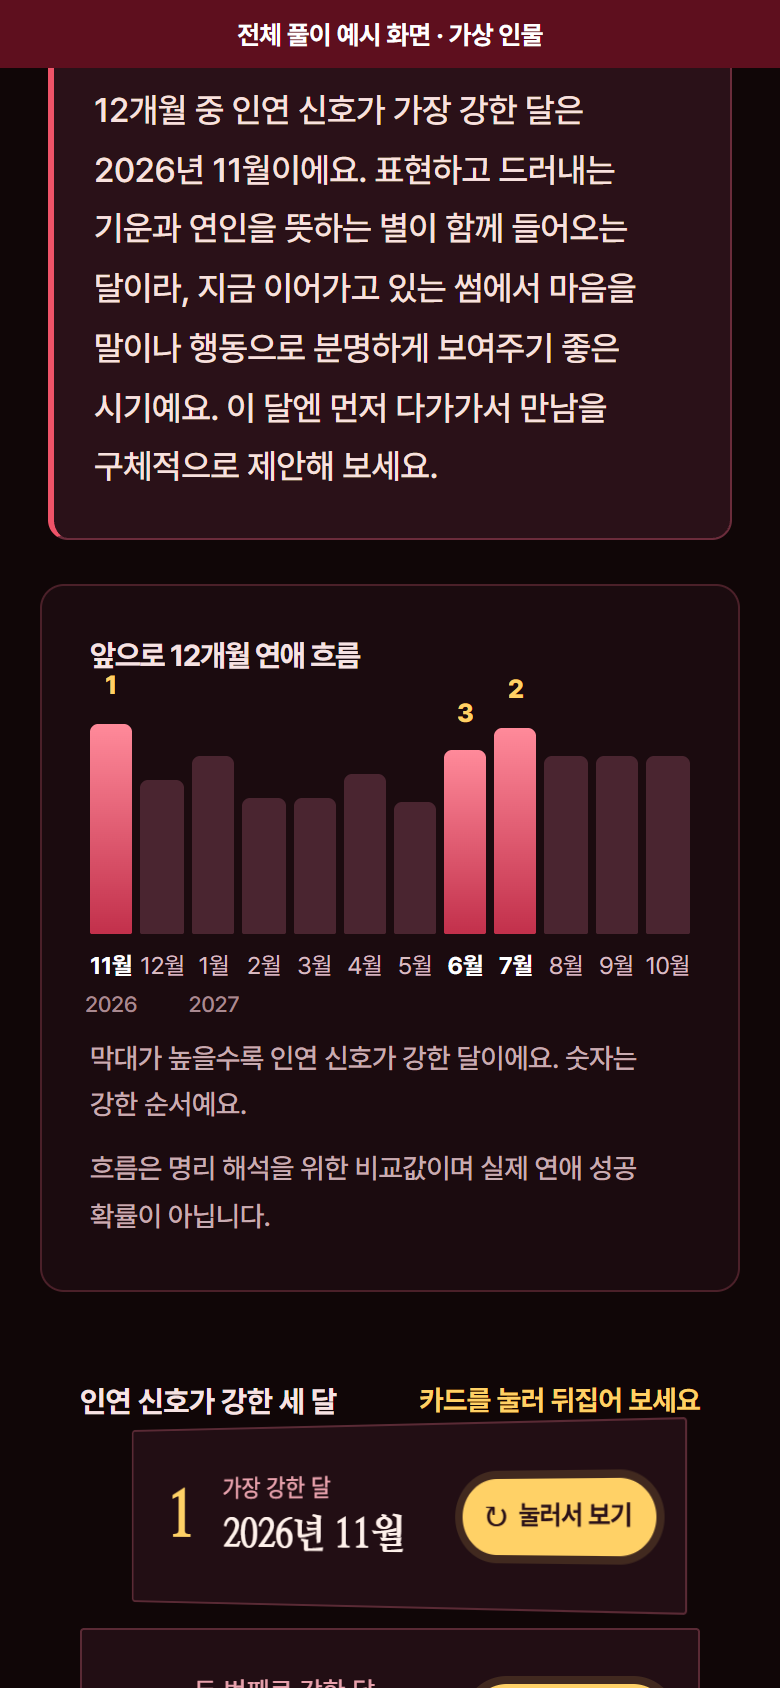
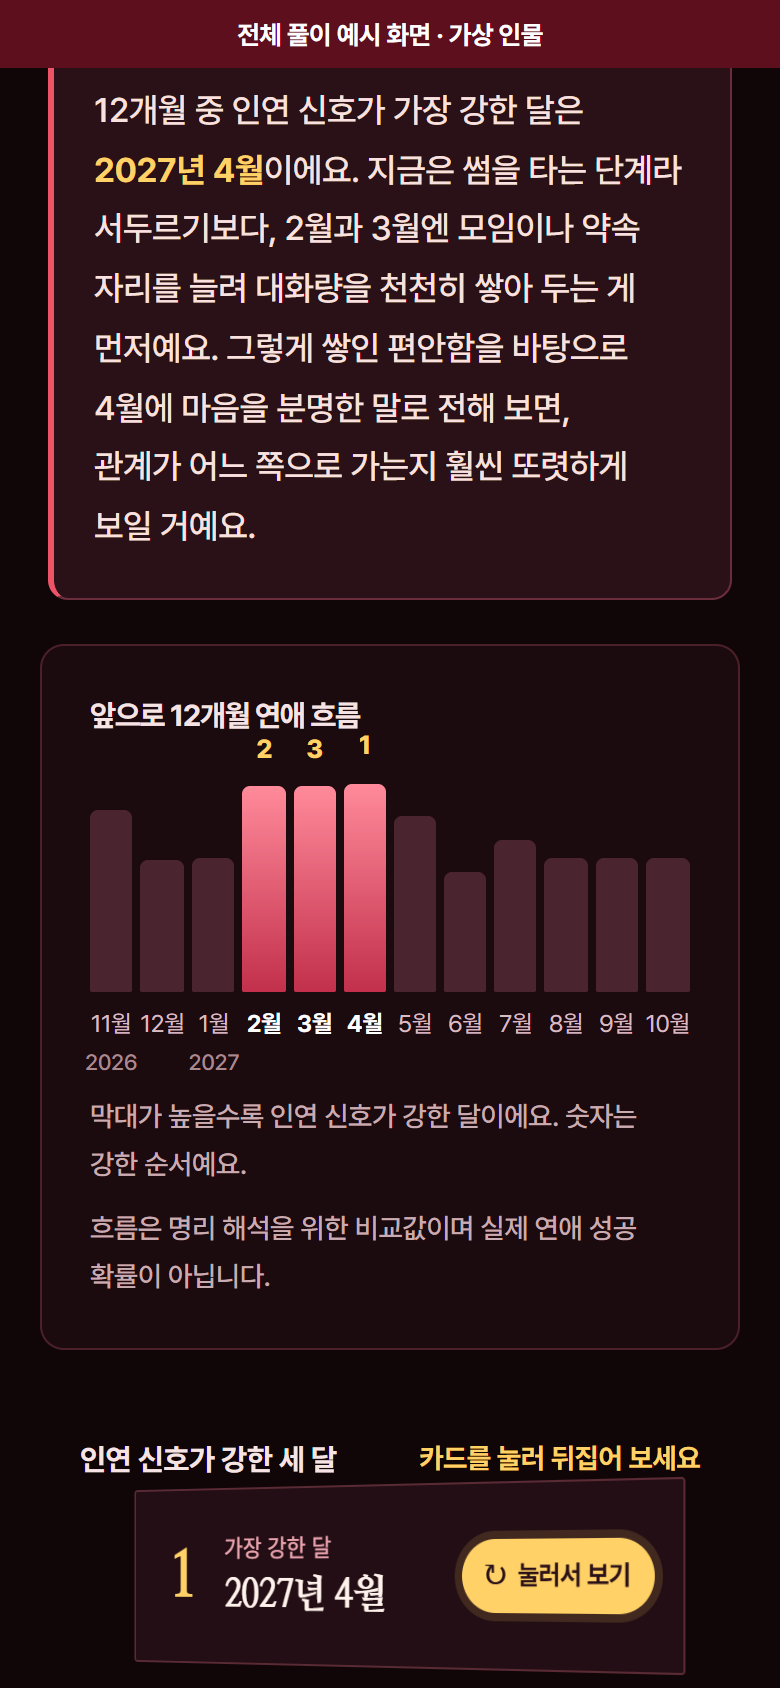
유료 리포트 실물 화면 3장을 쉬운 말 새 샘플(서연)로 다시 찍는다

diff --git a/docs/preview/serve-example.js b/docs/preview/serve-example.js
@@ -1,24 +1,32 @@
 'use strict';
-// 로컬 미리보기 전용(개발용): reading-example.json(가상 인물 '수달'의 실제 AI 생성 예시)을 가상 결제 완료 주문(preview-example)으로 보여 준다.
-// 임시 DB를 쓰고 운영 데이터·결제·메일에는 연결하지 않는다. 사용: node docs/preview/serve-example.js [포트=4520]
+// 로컬 미리보기 전용(개발용): 가상 인물의 실제 AI 생성 예시를 가상 결제 완료 주문(preview-example)으로 보여 준다.
+// 샘플 선택: 'plain'(기본, docs/preview/love-generated-plain-some.json, 쉬운 말 '서연') 또는 'legacy'(public/love-assets/reading-example.json, 예전 '수달').
+// 임시 DB를 쓰고 운영 데이터·결제·메일에는 연결하지 않는다. 사용: node docs/preview/serve-example.js [포트=4520] [plain|legacy]
 process.env.LOVE_TIMING_ENABLED = 'true';
 process.env.SAJU_DB_PATH = require('node:path').join(require('node:os').tmpdir(), 'love-example-preview-' + process.pid + '.db');
 const fs = require('node:fs');
 const path = require('node:path');
 const http = require('node:http');
 const app = require('../../src/server/app');
-const example = JSON.parse(fs.readFileSync(path.join(__dirname, '../../public/love-assets/reading-example.json'), 'utf8'));
-function start(port) {
+const { toPlainText } = require('../../src/llm/loveTimingReading');
+const { loveWebHtml } = require('../../src/pdf/loveVisual');
+const SAMPLES = {
+  plain: () => { const x = JSON.parse(fs.readFileSync(path.join(__dirname, 'love-generated-plain-some.json'), 'utf8')); return { file: 'docs/preview/love-generated-plain-some.json', report: toPlainText(x.reading), visual: loveWebHtml(x.reading.timing) }; },
+  legacy: () => { const x = JSON.parse(fs.readFileSync(path.join(__dirname, '../../public/love-assets/reading-example.json'), 'utf8')); return { file: 'public/love-assets/reading-example.json', report: x.paid, visual: x.visual }; },
+};
+function start(port, sample = 'plain') {
+  if (!SAMPLES[sample]) throw new Error('알 수 없는 샘플: ' + sample);
+  const example = SAMPLES[sample]();
   return new Promise((resolve) => {
     const server = http.createServer((req, res) => {
       if (/^\/api\/status\/preview-example/.test(req.url)) {
         res.writeHead(200, { 'Content-Type': 'application/json; charset=utf-8' });
-        return res.end(JSON.stringify({ status: 'done', report: example.paid, visual: example.visual, hasPdf: false, delivery: { status: 'sent', canRetry: false, exhausted: false } }));
+        return res.end(JSON.stringify({ status: 'done', report: example.report, visual: example.visual, hasPdf: false, delivery: { status: 'sent', canRetry: false, exhausted: false } }));
       }
       app(req, res);
     }).listen(port, '127.0.0.1', () => resolve(server));
   });
 }
 module.exports = { start };
-if (require.main === module) start(Number(process.argv[2]) || 4520).then(() => console.log('example preview http://127.0.0.1:' + (process.argv[2] || 4520) + '/love.html?jobId=preview-example'));
+if (require.main === module) start(Number(process.argv[2]) || 4520, process.argv[3] || 'plain').then(() => console.log('example preview http://127.0.0.1:' + (process.argv[2] || 4520) + '/love.html?jobId=preview-example'));
 

diff --git a/docs/preview/capture-paid-shots.js b/docs/preview/capture-paid-shots.js
@@ -1,6 +1,6 @@
 'use strict';
 // 개발용: 가상 인물 예시(reading-example.json)의 유료 읽기 화면을 390x844(@2x)로 찍어 docs/preview/paid-shots-source/ 에 원본 PNG로 저장한다.
-// 사용: node docs/preview/capture-paid-shots.js   (결과 webp는 docs/preview/make-paid-webp.js 가 만든다)
+// 샘플: plain(기본, 쉬운 말 '서연') 또는 legacy(예전 '수달'). 사용: node docs/preview/capture-paid-shots.js [plain|legacy]   (결과 webp는 docs/preview/make-paid-webp.js 가 만든다)
 const puppeteer = require('puppeteer');
 const fs = require('node:fs'), path = require('node:path');
 const { start } = require('./serve-example.js');
@@ -14,7 +14,8 @@ const SCENES = [
 ];
 (async () => {
   fs.mkdirSync(out, { recursive: true });
-  const server = await start(4520);
+  const sample = process.argv[2] || 'plain';
+  const server = await start(4520, sample);
   const browser = await puppeteer.launch({ headless: true });
   const page = await browser.newPage();
   await page.setViewport({ width: 390, height: 844, deviceScaleFactor: 2 });
@@ -26,6 +27,8 @@ const SCENES = [
     document.head.appendChild(css);
     const b = document.createElement('div'); b.className = 'paid-band'; b.textContent = band; document.body.appendChild(b);
   }, BAND);
+  await page.evaluate(async () => { document.querySelectorAll('img').forEach((i) => { i.loading = 'eager'; }); await Promise.all([...document.images].map((i) => i.decode().catch(() => {}))); });
+  await new Promise((r) => setTimeout(r, 800));
   const result = [];
   for (const s of SCENES) {
     const y = await page.evaluate((sel, off) => { const e = document.querySelector(sel); return Math.max(0, Math.round(e.getBoundingClientRect().top + scrollY + off)); }, s.sel, s.offset);

diff --git a/docs/preview/paid-shots-source.md b/docs/preview/paid-shots-source.md
@@ -2,19 +2,20 @@
 
 랜딩 '풀이 미리보기' 스트립과 무료 결과에 쓰는 public/love-assets/preview/paid-1~3.webp 의 원본과 만든 방법.
 
-- 내용: public/love-assets/reading-example.json 의 가상 인물 '수달'(situation: some)에 대해 실제 AI가 생성한 전체 풀이(paid, visual)를 유료 읽기 화면(love-reading-view)으로 렌더한 것. JSON notice: "가상 인물의 정보로 실제 생성한 화면 예시입니다. 고객님의 분석 결과가 아닙니다." 이름 외 개인정보 없음.
-- 띄운 방법: docs/preview/serve-example.js (로컬 전용, 임시 DB, 가상 결제 완료 주문 preview-example 에 위 예시를 붙임. 운영 데이터·결제·메일 연결 없음). 기존 serve-generated.js 와 같은 방식이다.
+- 내용: docs/preview/love-generated-plain-some.json (가상 인물 '서연', 쉬운 말 새 샘플, 커밋 7124410)의 실제 AI 생성 전체 풀이를 유료 읽기 화면(love-reading-view, 커밋 7d52177 상태)으로 렌더한 것. 이름 외 개인정보 없음. (2026-11-14 교체. 이전 이미지는 public/love-assets/reading-example.json '수달' 예전 문장이었고, 'legacy' 인자로 다시 찍을 수 있다.)
+- 띄운 방법: docs/preview/serve-example.js [포트] [plain|legacy] (기본 plain). 로컬 전용, 임시 DB, 가상 결제 완료 주문 preview-example 에 샘플의 toPlainText 본문과 loveWebHtml 그래프를 붙임. 운영 데이터·결제·메일 연결 없음.
 - 캡처: docs/preview/capture-paid-shots.js 가 390×844 deviceScaleFactor 2 로 찍고(원본 PNG 780×1688은 docs/preview/paid-shots-source/paid-N.png), 위쪽에 띠 '전체 풀이 예시 화면 · 가상 인물'을 합성한다. 장면 위치는 paid-shots-source/scenes.json.
 - webp: docs/preview/make-paid-webp.js 가 휴대폰 테두리를 씌워 폭 720px, 품질 80으로 저장.
 
 | 파일 | 장면 | 원본 |
 | --- | --- | --- |
-| paid-1.webp | 01 인연 신호가 강한 세 달: 1위 달(2026년 11월)과 해볼 일 두 가지 | paid-shots-source/paid-1.png |
+| paid-1.webp | 01 인연 신호가 강한 세 달: 1위 달(2027년 4월)과 장면·해볼 일 | paid-shots-source/paid-1.png |
 | paid-2.webp | 한 줄 답과 앞으로 12개월 연애 흐름 그래프 | paid-shots-source/paid-2.png |
-| paid-3.webp | 02 서로 끌리는 이유: 나에게 끌리는 사람 | paid-shots-source/paid-3.png |
+| paid-3.webp | 02 서로 끌리는 이유: 나에게 끌리는 사람(장면) | paid-shots-source/paid-3.png |
 
 ## 한계
 
-- 읽기 화면의 문장은 아직 용어가 섞인 현재 버전이다(스펙의 쉬운 말 개편은 다른 작업자 범위). 개편 뒤 같은 스크립트로 다시 찍을 수 있다: `node docs/preview/capture-paid-shots.js && node docs/preview/make-paid-webp.js`.
+- 샘플 파일이 바뀌면 같은 두 스크립트로 다시 찍는다: node docs/preview/capture-paid-shots.js plain && node docs/preview/make-paid-webp.js
+- paid-2 그래프 아래 고정 안내문 '흐름은 명리 해석을 위한 비교값이며…'에 '명리'라는 말이 남아 있다(읽기 화면 코드의 고정 문구).
 - 세 달 카드 영역(paid-2 아래)은 아직 '눌러서 보기' 카드 모양이다.
 
